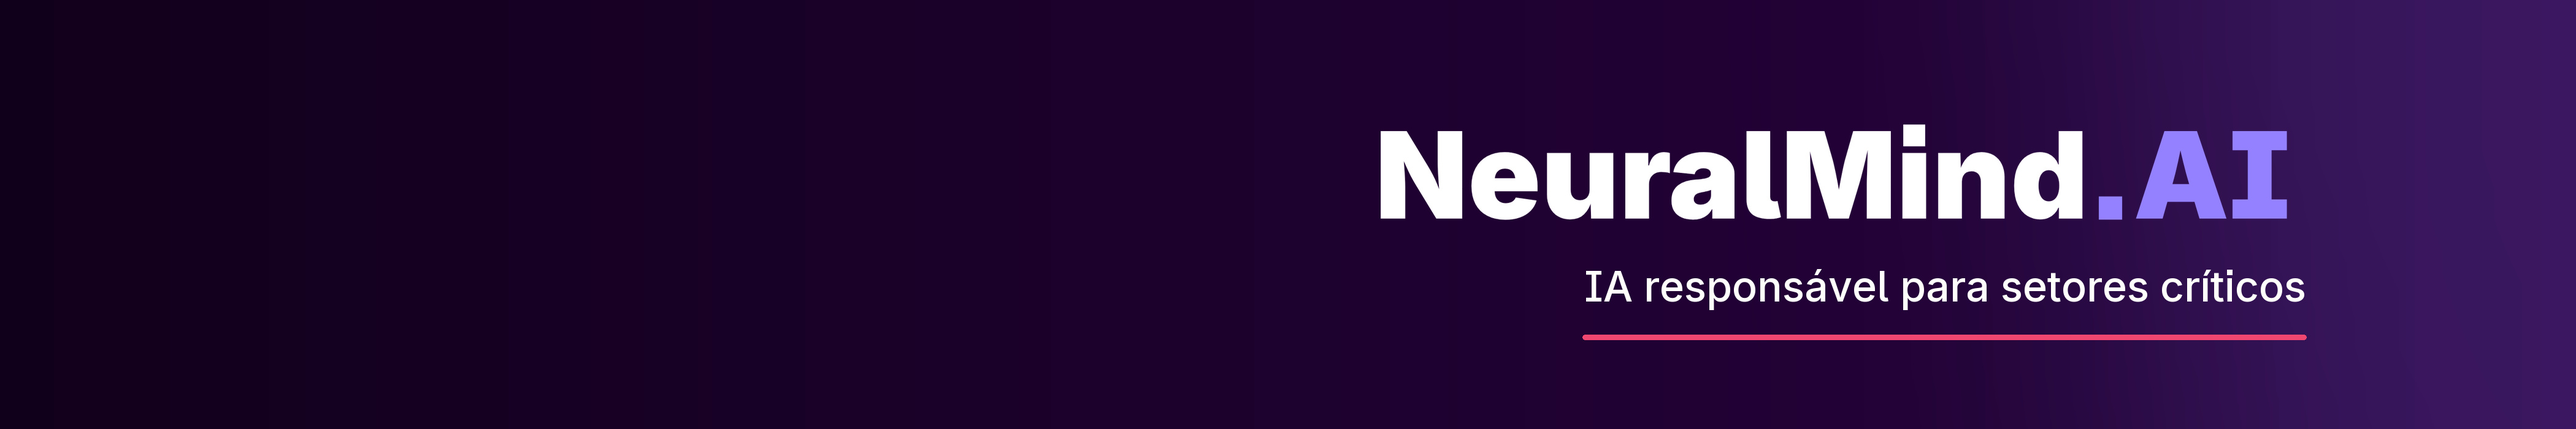
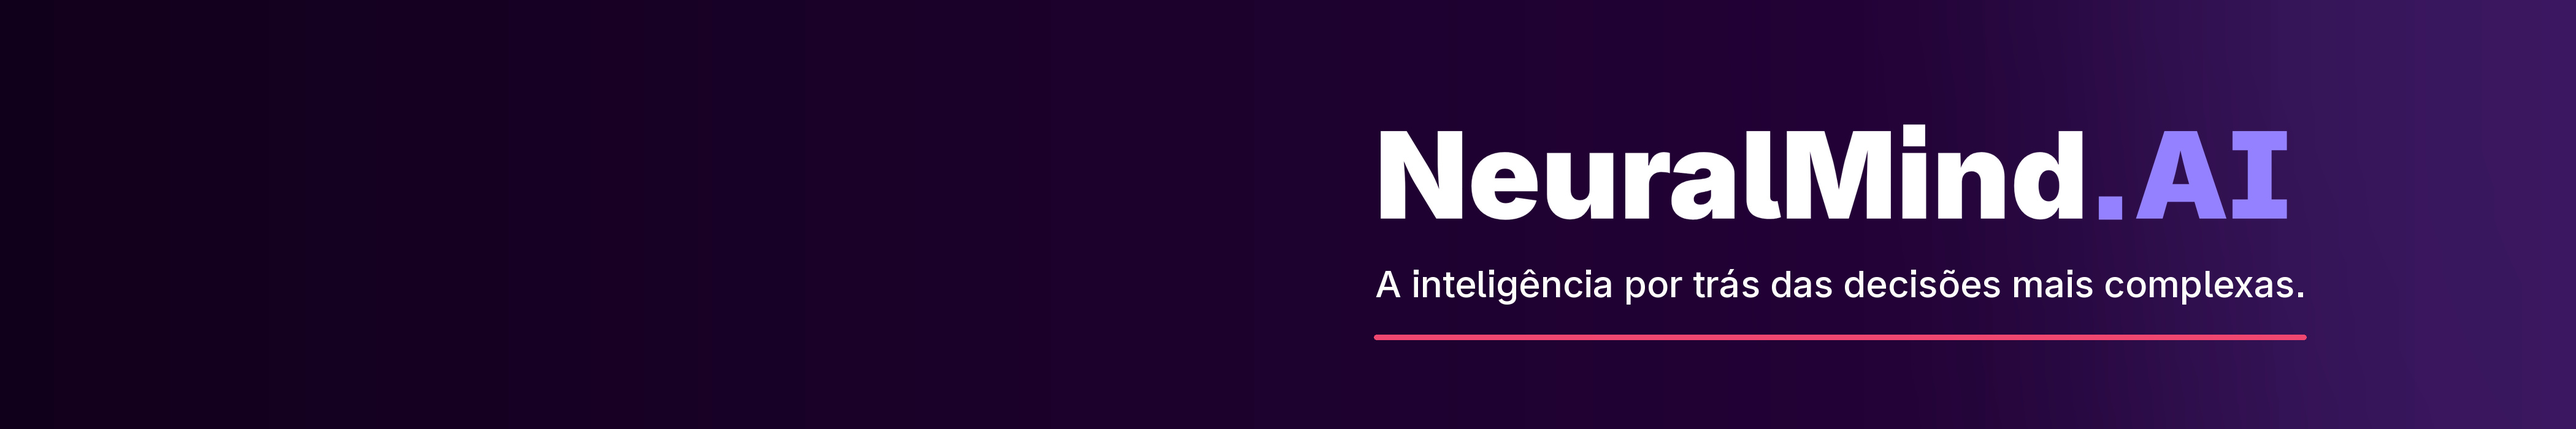
update slogan in media assets

Changed region(s): [[0.5302, 0.63, 0.9045, 0.72], [0.5302, 0.78, 0.6238, 0.81]]

diff --git a/index.html b/index.html
@@ -1032,7 +1032,7 @@
         <div class="media-assets-stack">
           <article class="media-asset">
             <div class="media-preview media-preview--linkedin">
-              <img src="assets/media/linkedin-company-cover-4200x700.jpg?v=20260721-right-safe" alt="Capa institucional NeuralMind.AI para página no LinkedIn com marca alinhada à direita" loading="lazy">
+              <img src="assets/media/linkedin-company-cover-4200x700.jpg?v=20260804-decision-intelligence" alt="Capa institucional NeuralMind.AI para página no LinkedIn com marca alinhada à direita" loading="lazy">
             </div>
             <div class="media-asset-info">
               <div>
@@ -1049,7 +1049,7 @@
 
           <article class="media-asset">
             <div class="media-preview media-preview--youtube">
-              <img src="assets/media/youtube-channel-banner-2560x1440.jpg?v=20260720-premium-coral" alt="Capa institucional NeuralMind.AI para canal no YouTube" loading="lazy">
+              <img src="assets/media/youtube-channel-banner-2560x1440.jpg?v=20260804-decision-intelligence" alt="Capa institucional NeuralMind.AI para canal no YouTube" loading="lazy">
             </div>
             <div class="media-asset-info">
               <div>

diff --git a/scripts/generate_media_assets.py b/scripts/generate_media_assets.py
@@ -78,17 +78,17 @@ def linkedin_cover():
 
     draw = ImageDraw.Draw(canvas)
     tagline_font = ImageFont.truetype(
-        FONTS / "NeuralMindSansSquare-Medium.ttf", 68
+        FONTS / "NeuralMindSansSquare-Medium.ttf", 60
     )
     right_aligned_text(
         draw,
-        "IA responsável para setores críticos",
+        "A inteligência por trás das decisões mais complexas.",
         content_right,
         426,
         font=tagline_font,
         fill=(255, 255, 252, 224),
     )
-    draw.rounded_rectangle((content_right - 1180, 546, content_right, 554), radius=4, fill=CORAL)
+    draw.rounded_rectangle((content_right - 1520, 546, content_right, 554), radius=4, fill=CORAL)
     save_jpeg(canvas, OUTPUT / "linkedin-company-cover-4200x700.jpg")
 
 
@@ -106,7 +106,7 @@ def youtube_banner():
     )
     centered_text(
         draw,
-        "IA responsável para setores críticos",
+        "A inteligência por trás das decisões mais complexas.",
         1280,
         792,
         tagline_font,
